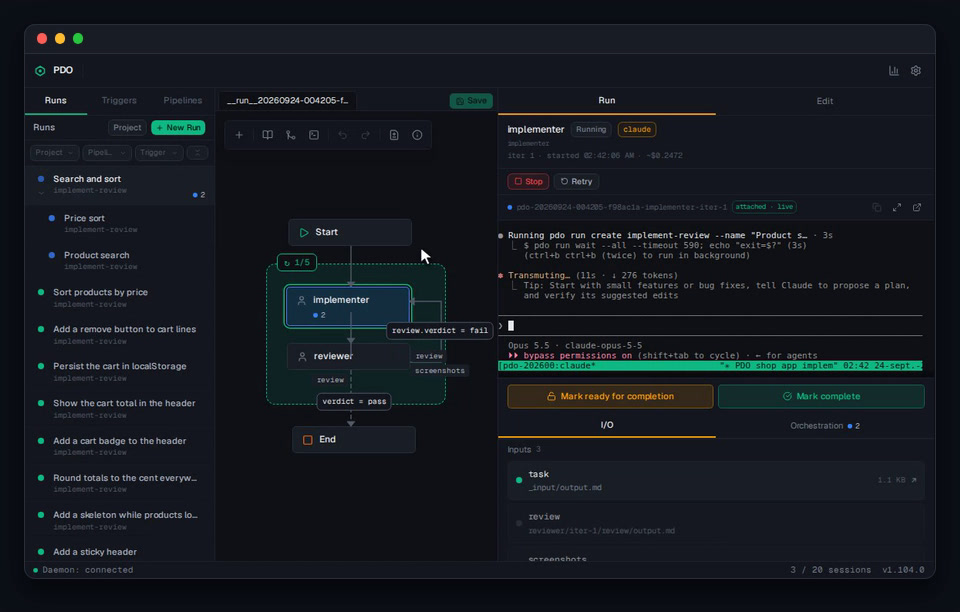
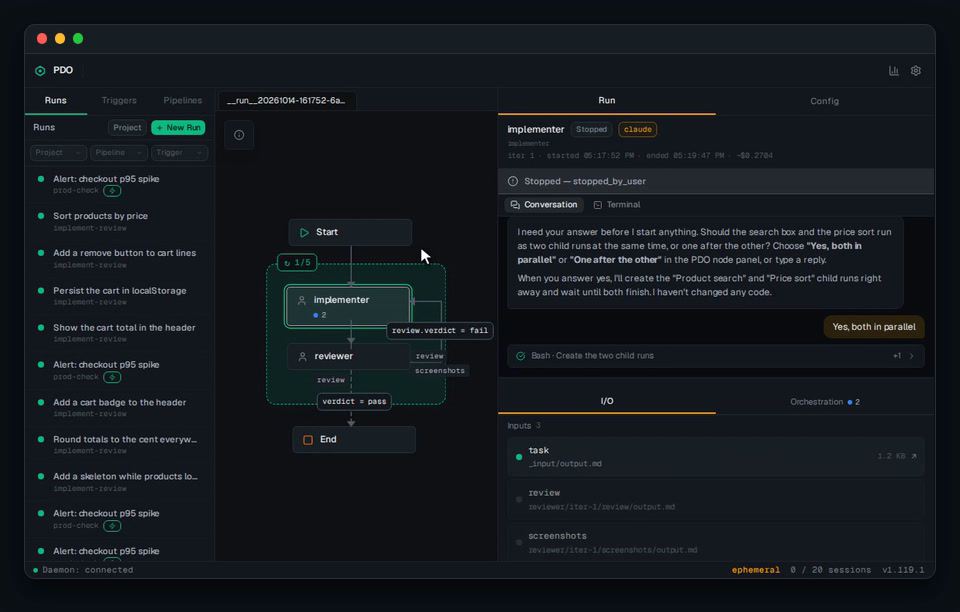
docs(readme): la scène des nœuds interactifs répond depuis la Conversation
La scène interactive-orchestrator suit la nouvelle interface : l'agent
pose sa question avec deux réponses (`pdo wait-user --option`), le
panneau s'ouvre sur la Conversation, le curseur clique « Yes, both in
parallel » et les deux runs enfants se rangent sous le parent. Marqueur
`answer-typed` → `answer-picked`, légendes des deux README à jour.

La scène hero filme le terminal : ses variantes démarrent sur l'onglet
Terminal (`pdo.nodePanelView`), le GIF publié reste exact.

Média régénéré (variante a), seule cette scène.

diff --git a/docs/readme/README.fr.md b/docs/readme/README.fr.md
@@ -131,7 +131,7 @@ Un nœud interactive attend votre réponse avant de continuer : son agent pose l
 </td>
 <td width="50%">
   <!-- scene: interactive-orchestrator -->
-  <a href="../../docs/features.md#interactive-and-orchestrator-nodes"><picture><source media="(prefers-reduced-motion: reduce)" srcset="../../docs/assets/readme/interactive-orchestrator.jpg"><source srcset="../../docs/assets/readme/interactive-orchestrator.gif" type="image/gif"><img src="../../docs/assets/readme/interactive-orchestrator.jpg" alt="Un nœud pose une question et vous attend, reçoit la réponse tapée dans son terminal, puis lance deux runs enfants rangés sous lui dans l'arbre de runs" width="100%" /></picture></a>
+  <a href="../../docs/features.md#interactive-and-orchestrator-nodes"><picture><source media="(prefers-reduced-motion: reduce)" srcset="../../docs/assets/readme/interactive-orchestrator.jpg"><source srcset="../../docs/assets/readme/interactive-orchestrator.gif" type="image/gif"><img src="../../docs/assets/readme/interactive-orchestrator.jpg" alt="Un nœud pose une question et vous attend, reçoit la réponse cliquée dans sa conversation, puis lance deux runs enfants rangés sous lui dans l'arbre de runs" width="100%" /></picture></a>
 </td>
 </tr>
 <tr>

diff --git a/README.md b/README.md
@@ -131,7 +131,7 @@ An interactive node waits for your answer before it goes on: its agent asks, you
 </td>
 <td width="50%">
   <!-- scene: interactive-orchestrator -->
-  <a href="docs/features.md#interactive-and-orchestrator-nodes"><picture><source media="(prefers-reduced-motion: reduce)" srcset="docs/assets/readme/interactive-orchestrator.jpg"><source srcset="docs/assets/readme/interactive-orchestrator.gif" type="image/gif"><img src="docs/assets/readme/interactive-orchestrator.jpg" alt="A node asks a question and waits for you, gets the answer typed in its terminal, then launches two child runs nested under it in the run tree" width="100%" /></picture></a>
+  <a href="docs/features.md#interactive-and-orchestrator-nodes"><picture><source media="(prefers-reduced-motion: reduce)" srcset="docs/assets/readme/interactive-orchestrator.jpg"><source srcset="docs/assets/readme/interactive-orchestrator.gif" type="image/gif"><img src="docs/assets/readme/interactive-orchestrator.jpg" alt="A node asks a question and waits for you, gets the answer clicked in its conversation, then launches two child runs nested under it in the run tree" width="100%" /></picture></a>
 </td>
 </tr>
 <tr>
